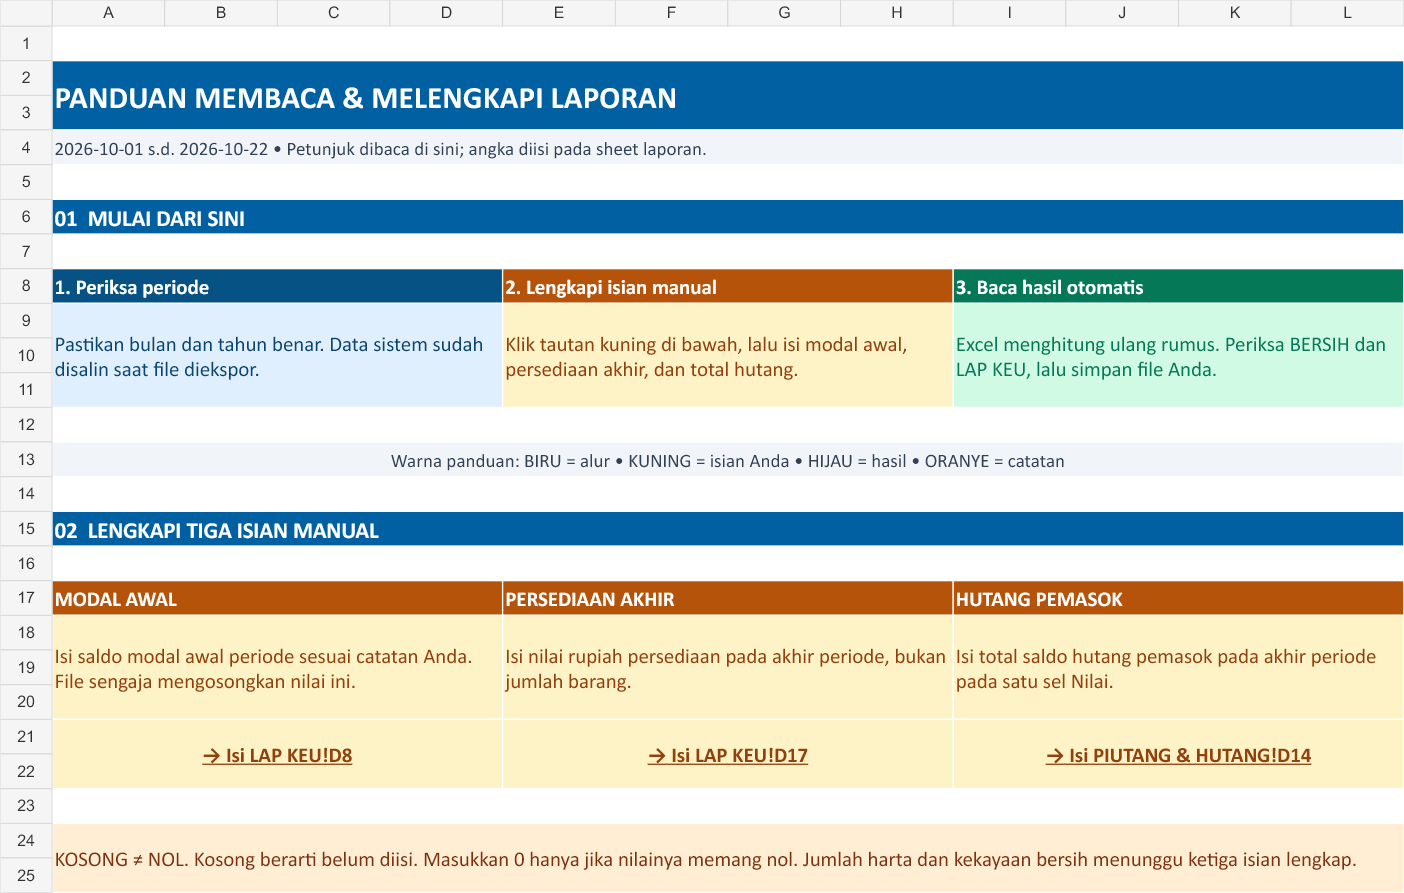
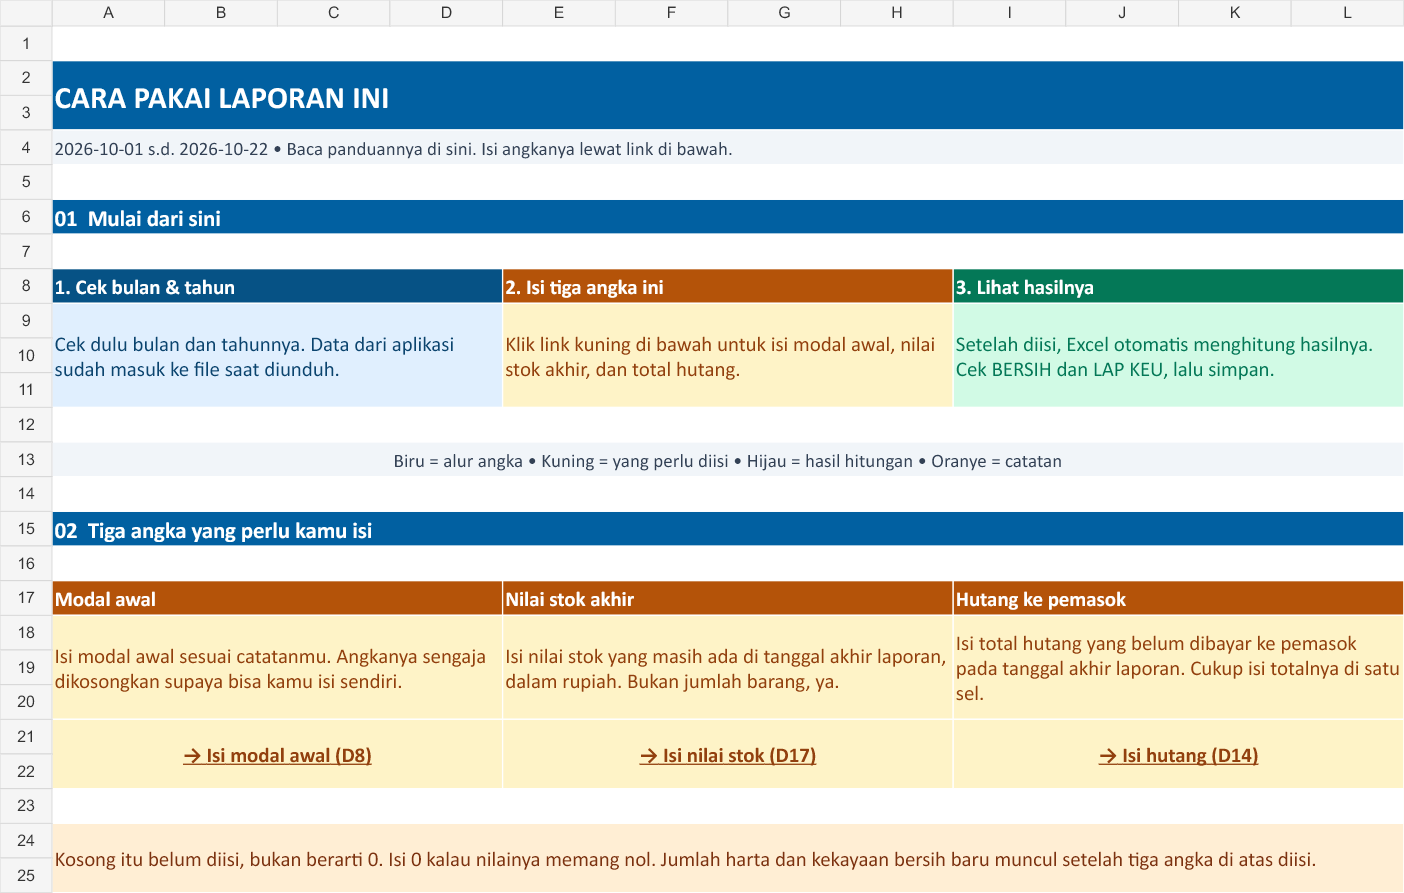
docs(finance): simplify monthly Excel guide language

diff --git a/apps/web/features/financial-report/helpers/monthly-workbook-guide.ts b/apps/web/features/financial-report/helpers/monthly-workbook-guide.ts
@@ -38,40 +38,40 @@ export function buildMonthlyGuide({ monthName, debtRow, period }: GuideContext):
     }
     const anchor = sheet[utils.encode_cell(bounds.s)];
     anchor.v = text;
-    if (options.target) anchor.l = { Target: options.target, Tooltip: "Klik untuk membuka sel di laporan" };
+    if (options.target) anchor.l = { Target: options.target, Tooltip: "Klik untuk langsung ke bagian ini di laporan" };
   }
 
   const link = (name: string, cell: string) => `#'${name.replace(/'/g, "''")}'!${cell}`;
-  block("A2:L3", "PANDUAN MEMBACA & MELENGKAPI LAPORAN", brand, { solid: true, size: 18 });
-  block("A4:L4", `${period} • Petunjuk dibaca di sini; angka diisi pada sheet laporan.`, surface, { size: 11 });
-  block("A6:L6", "01  MULAI DARI SINI", brand, { solid: true, size: 13 });
-  block("A8:D8", "1. Periksa periode", brandDeep, { solid: true });
-  block("A9:D11", "Pastikan bulan dan tahun benar. Data sistem sudah disalin saat file diekspor.", brand);
-  block("E8:H8", "2. Lengkapi isian manual", input, { solid: true });
-  block("E9:H11", "Klik tautan kuning di bawah, lalu isi modal awal, persediaan akhir, dan total hutang.", input);
-  block("I8:L8", "3. Baca hasil otomatis", success, { solid: true });
-  block("I9:L11", "Excel menghitung ulang rumus. Periksa BERSIH dan LAP KEU, lalu simpan file Anda.", success);
-  block("A13:L13", "Warna panduan: BIRU = alur • KUNING = isian Anda • HIJAU = hasil • ORANYE = catatan", surface, { size: 11, center: true });
+  block("A2:L3", "CARA PAKAI LAPORAN INI", brand, { solid: true, size: 18 });
+  block("A4:L4", `${period} • Baca panduannya di sini. Isi angkanya lewat link di bawah.`, surface, { size: 11 });
+  block("A6:L6", "01  Mulai dari sini", brand, { solid: true, size: 13 });
+  block("A8:D8", "1. Cek bulan & tahun", brandDeep, { solid: true });
+  block("A9:D11", "Cek dulu bulan dan tahunnya. Data dari aplikasi sudah masuk ke file saat diunduh.", brand);
+  block("E8:H8", "2. Isi tiga angka ini", input, { solid: true });
+  block("E9:H11", "Klik link kuning di bawah untuk isi modal awal, nilai stok akhir, dan total hutang.", input);
+  block("I8:L8", "3. Lihat hasilnya", success, { solid: true });
+  block("I9:L11", "Setelah diisi, Excel otomatis menghitung hasilnya. Cek BERSIH dan LAP KEU, lalu simpan.", success);
+  block("A13:L13", "Biru = alur angka • Kuning = yang perlu diisi • Hijau = hasil hitungan • Oranye = catatan", surface, { size: 11, center: true });
 
-  block("A15:L15", "02  LENGKAPI TIGA ISIAN MANUAL", brand, { solid: true, size: 13 });
-  block("A17:D17", "MODAL AWAL", input, { solid: true });
-  block("E17:H17", "PERSEDIAAN AKHIR", input, { solid: true });
-  block("I17:L17", "HUTANG PEMASOK", input, { solid: true });
-  block("A18:D20", "Isi saldo modal awal periode sesuai catatan Anda. File sengaja mengosongkan nilai ini.", input);
-  block("E18:H20", "Isi nilai rupiah persediaan pada akhir periode, bukan jumlah barang.", input);
-  block("I18:L20", "Isi total saldo hutang pemasok pada akhir periode pada satu sel Nilai.", input);
-  block("A21:D22", "→ Isi LAP KEU!D8", input, { center: true, target: link("LAP KEU", "D8") });
-  block("E21:H22", "→ Isi LAP KEU!D17", input, { center: true, target: link("LAP KEU", "D17") });
-  block("I21:L22", `→ Isi PIUTANG & HUTANG!D${debtRow}`, input, { center: true, target: link("PIUTANG & HUTANG", `D${debtRow}`) });
-  block("A24:L25", "KOSONG ≠ NOL. Kosong berarti belum diisi. Masukkan 0 hanya jika nilainya memang nol. Jumlah harta dan kekayaan bersih menunggu ketiga isian lengkap.", accent);
+  block("A15:L15", "02  Tiga angka yang perlu kamu isi", brand, { solid: true, size: 13 });
+  block("A17:D17", "Modal awal", input, { solid: true });
+  block("E17:H17", "Nilai stok akhir", input, { solid: true });
+  block("I17:L17", "Hutang ke pemasok", input, { solid: true });
+  block("A18:D20", "Isi modal awal sesuai catatanmu. Angkanya sengaja dikosongkan supaya bisa kamu isi sendiri.", input);
+  block("E18:H20", "Isi nilai stok yang masih ada di tanggal akhir laporan, dalam rupiah. Bukan jumlah barang, ya.", input);
+  block("I18:L20", "Isi total hutang yang belum dibayar ke pemasok pada tanggal akhir laporan. Cukup isi totalnya di satu sel.", input);
+  block("A21:D22", "→ Isi modal awal (D8)", input, { center: true, target: link("LAP KEU", "D8") });
+  block("E21:H22", "→ Isi nilai stok (D17)", input, { center: true, target: link("LAP KEU", "D17") });
+  block("I21:L22", `→ Isi hutang (D${debtRow})`, input, { center: true, target: link("PIUTANG & HUTANG", `D${debtRow}`) });
+  block("A24:L25", "Kosong itu belum diisi, bukan berarti 0. Isi 0 kalau nilainya memang nol. Jumlah harta dan kekayaan bersih baru muncul setelah tiga angka di atas diisi.", accent);
 
-  block("A27:L27", "03  DARI MANA ANGKA OTOMATIS BERASAL?", brand, { solid: true, size: 13 });
-  block("A29:D29", "RC = RINCIAN PENERIMAAN", success, { solid: true, target: link(`RC ${monthName}`, "A7") });
-  block("E29:H29", "RP = RINCIAN PENGELUARAN", accent, { solid: true, target: link(`RP ${monthName}`, "A7") });
-  block("I29:L29", "PIUTANG = SALDO AKHIR", brandDeep, { solid: true, target: link("PIUTANG & HUTANG", "A7") });
-  block("A30:D32", "Nilai penerimaan dari sistem menjadi sumber rekap harian dan total pendapatan.", success);
-  block("E30:H32", "Nilai pengeluaran dari sistem, termasuk belanja dan gaji tercatat, menjadi sumber total biaya.", accent);
-  block("I30:L32", "Saldo piutang akhir periode masuk ke ringkasan harta. Saldo ini bukan tambahan penerimaan kas.", brand);
+  block("A27:L27", "03  Angka-angkanya dari mana?", brand, { solid: true, size: 13 });
+  block("A29:D29", "RC = UANG MASUK", success, { solid: true, target: link(`RC ${monthName}`, "A7") });
+  block("E29:H29", "RP = UANG KELUAR", accent, { solid: true, target: link(`RP ${monthName}`, "A7") });
+  block("I29:L29", "PIUTANG = BELUM DIBAYAR", brandDeep, { solid: true, target: link("PIUTANG & HUTANG", "A7") });
+  block("A30:D32", "Rincian uang yang sudah diterima. Excel menjumlahkannya ke rekap harian dan total pendapatan.", success);
+  block("E30:H32", "Rincian uang yang sudah keluar, termasuk belanja dan gaji yang tercatat. Semuanya masuk ke total pengeluaran.", accent);
+  block("I30:L32", "Ini sisa tagihan pelanggan di tanggal akhir laporan. Masuk ke ringkasan harta, tapi belum jadi uang yang diterima.", brand);
   block("A34:B36", "RC + RP", brandDeep, { solid: true, center: true });
   block("C34:C36", "→", surface, { size: 22, center: true });
   block("D34:E36", monthName, brand, { solid: true, center: true, target: link(monthName, "A5") });
@@ -79,25 +79,25 @@ export function buildMonthlyGuide({ monthName, debtRow, period }: GuideContext):
   block("G34:I36", "BERSIH", success, { solid: true, center: true, target: link("BERSIH", "F27") });
   block("J34:J36", "→", surface, { size: 22, center: true });
   block("K34:L36", "LAP KEU", brand, { solid: true, center: true, target: link("LAP KEU", "G29") });
-  block("A38:L39", "Data tidak tersambung langsung ke aplikasi. Perubahan di aplikasi memerlukan ekspor ulang. Perubahan angka sumber di file hanya menghitung ulang rumus Excel; jangan mengganti sel rumus.", accent);
+  block("A38:L39", "Ada perubahan di aplikasi? Unduh ulang laporannya. Kalau mengubah angka isian di Excel, rumusnya ikut menghitung ulang. Biarkan sel yang berisi rumus tetap seperti semula.", accent);
 
-  block("A41:L41", "04  CARA ANGKA DIHITUNG", brand, { solid: true, size: 13 });
-  block("A42:L42", "ILUSTRASI • Contoh berikut bukan angka laporan Anda.", surface, { size: 11 });
-  block("A43:D43", "PENERIMAAN", success, { solid: true, center: true });
-  block("E43:H43", "− PENGELUARAN", accent, { solid: true, center: true });
-  block("I43:L43", "= SISA KAS", brand, { solid: true, center: true });
+  block("A41:L41", "04  Begini cara hitungnya", brand, { solid: true, size: 13 });
+  block("A42:L42", "CONTOH SAJA • Angka di bawah bukan angka dari laporanmu.", surface, { size: 11 });
+  block("A43:D43", "UANG MASUK", success, { solid: true, center: true });
+  block("E43:H43", "− UANG KELUAR", accent, { solid: true, center: true });
+  block("I43:L43", "= SISA UANG", brand, { solid: true, center: true });
   block("A44:D46", "Rp10.000.000", success, { size: 20, center: true });
   block("E44:H46", "Rp7.000.000", accent, { size: 20, center: true });
   block("I44:L46", "Rp3.000.000", brand, { size: 20, center: true });
-  block("A48:L49", "Jumlah harta = modal awal + piutang − hutang + persediaan akhir", brand);
+  block("A48:L49", "Jumlah harta = modal awal + piutang − hutang + nilai stok akhir (persediaan)", brand);
   block("A50:L51", "Kekayaan bersih = jumlah harta + sisa kas", success, { target: link("LAP KEU", "D32") });
-  block("A52:L52", "Rumus ringkasan pada file ini • Basis kas; selisih kas bukan laba akrual lengkap.", surface, { size: 11 });
+  block("A52:L52", "Yang dihitung: uang yang sudah masuk dan keluar. Tagihan yang belum dibayar belum jadi uang masuk.", surface, { size: 11 });
 
-  block("A54:L54", "05  CATATAN AGAR ANGKA TIDAK DIHITUNG DUA KALI", brand, { solid: true, size: 13 });
-  block("A56:F58", "BELANJA SUDAH TERMASUK RP\nPENGELUARAN BELANJA adalah rincian tambahan. Jangan tambahkan totalnya lagi ke pengeluaran.", accent);
-  block("G56:L58", "PERLU PEMETAAN SUDAH TERMASUK TOTAL\nPenerimaan yang belum memiliki kategori tetap dihitung. Periksa pemetaannya di aplikasi, lalu ekspor ulang.", accent);
-  block("A60:F62", "GAJI TERCATAT TETAP DIHITUNG\nPengeluaran gaji/mingguan masuk ke RP dan rekap. Tidak ada sheet gaji terpisah.", brand);
-  block("G60:L62", "GIRO TIDAK OTOMATIS MENJADI HUTANG\nMetode pembayaran belanja tidak menentukan saldo hutang pemasok. Isi saldo berdasarkan catatan Anda.", accent);
-  block("A64:L66", "SEBELUM DISIMPAN\nPastikan periode benar, tiga isian manual lengkap, dan rumus tetap utuh. Sisa kas positif = surplus; negatif = defisit. Untuk memperbarui data aplikasi, ekspor ulang dan lengkapi kembali isian manual.", success);
+  block("A54:L54", "05  Jangan sampai dihitung dua kali", brand, { solid: true, size: 13 });
+  block("A56:F58", "Belanja sudah masuk hitungan\nTab PENGELUARAN BELANJA cuma merinci belanjanya. Totalnya sudah ada di RP, jadi tidak perlu ditambah lagi.", accent);
+  block("G56:L58", "Belum ada kategori? Tetap dihitung\nAngka di bagian Perlu pemetaan sudah masuk total. Cek kategorinya di aplikasi, lalu unduh ulang kalau ada perubahan.", accent);
+  block("A60:F62", "Gaji juga sudah dihitung\nGaji/mingguan yang tercatat sudah masuk RP dan rekap. Jadi tidak perlu dihitung lagi, meski tidak ada tab gaji.", brand);
+  block("G60:L62", "Bayar pakai giro belum tentu hutang\nJangan pakai total giro sebagai saldo hutang. Isi hutang sesuai catatan tagihan yang memang belum dibayar.", accent);
+  block("A64:L66", "Sudah siap disimpan?\nCek bulan, tiga angka isian, dan rumusnya. Hasil positif berarti ada sisa uang; hasil negatif berarti pengeluaran lebih besar. Kalau unduh ulang dari aplikasi, isi lagi tiga angka manual tadi.", success);
   return sheet;
 }

diff --git a/markdown-files/panduan-visual-excel-keuangan-2026-10-22.md b/markdown-files/panduan-visual-excel-keuangan-2026-10-22.md
@@ -17,9 +17,12 @@ Tanggal rilis: 2026-10-22 (Asia/Jakarta).
   sudah dipakai ekspor. Warna panduan tidak mengubah warna sel laporan.
 - Diagram menjelaskan alur RC/RP → rekap bulan → BERSIH → LAP KEU;
   saldo piutang masuk ke ringkasan harta, bukan penerimaan kas tambahan.
-- Contoh Rp10 juta − Rp7 juta = Rp3 juta diberi label **ILUSTRASI**;
+- Contoh Rp10 juta − Rp7 juta = Rp3 juta diberi label **CONTOH SAJA**;
   angka tersebut bukan data pengguna dan tidak masuk perhitungan laporan.
 - Rumus jumlah harta dan kekayaan bersih dijelaskan sesuai rumus workbook.
+- Bahasa panduan dibuat santai dengan instruksi pendek, misalnya
+  “Cek bulan & tahun” dan “Isi tiga angka ini”; piutang dijelaskan sebagai
+  tagihan pelanggan yang belum dibayar dan persediaan sebagai nilai stok.
 - Panduan membahas kosong versus nol, basis kas, pemetaan penerimaan,
   gaji tercatat, belanja yang sudah termasuk RP, dan giro versus saldo hutang.
 
@@ -62,6 +65,12 @@ nilainya benar-benar nol. Ringkasan harta menunggu isian lengkap.
   dihitung ulang; mengosongkan persediaan kembali mengosongkan hasil terkait.
 - Empat render panduan diperiksa; screenshot Catatan Perubahan hanya
   menampilkan petunjuk tanpa data transaksi, pelanggan, atau ringkasan keuangan.
+- Revisi bahasa: 16 tes workbook dan lint lulus. Perbandingan dengan versi
+  sebelumnya memastikan hanya teks panduan dan tooltip yang berubah; rumus,
+  tautan tujuan, ukuran, warna, dan susunan seluruh sheet tetap sama.
+- Saat render revisi bahasa, seluruh assertion selesai dan empat PNG ditulis,
+  lalu runtime native keluar dengan kode `0xC0000409` saat proses ditutup.
+  Semua PNG telah diperiksa secara visual; ini keterbatasan alat verifikasi.
 - GitNexus tidak dapat berjalan karena Application Control Windows memblokir
   modul native `tree-sitter-cpp`; cakupan diperiksa melalui pemanggil langsung.
 - Headroom stats dipanggil; proxy kompresi tidak tersedia, sehingga output
